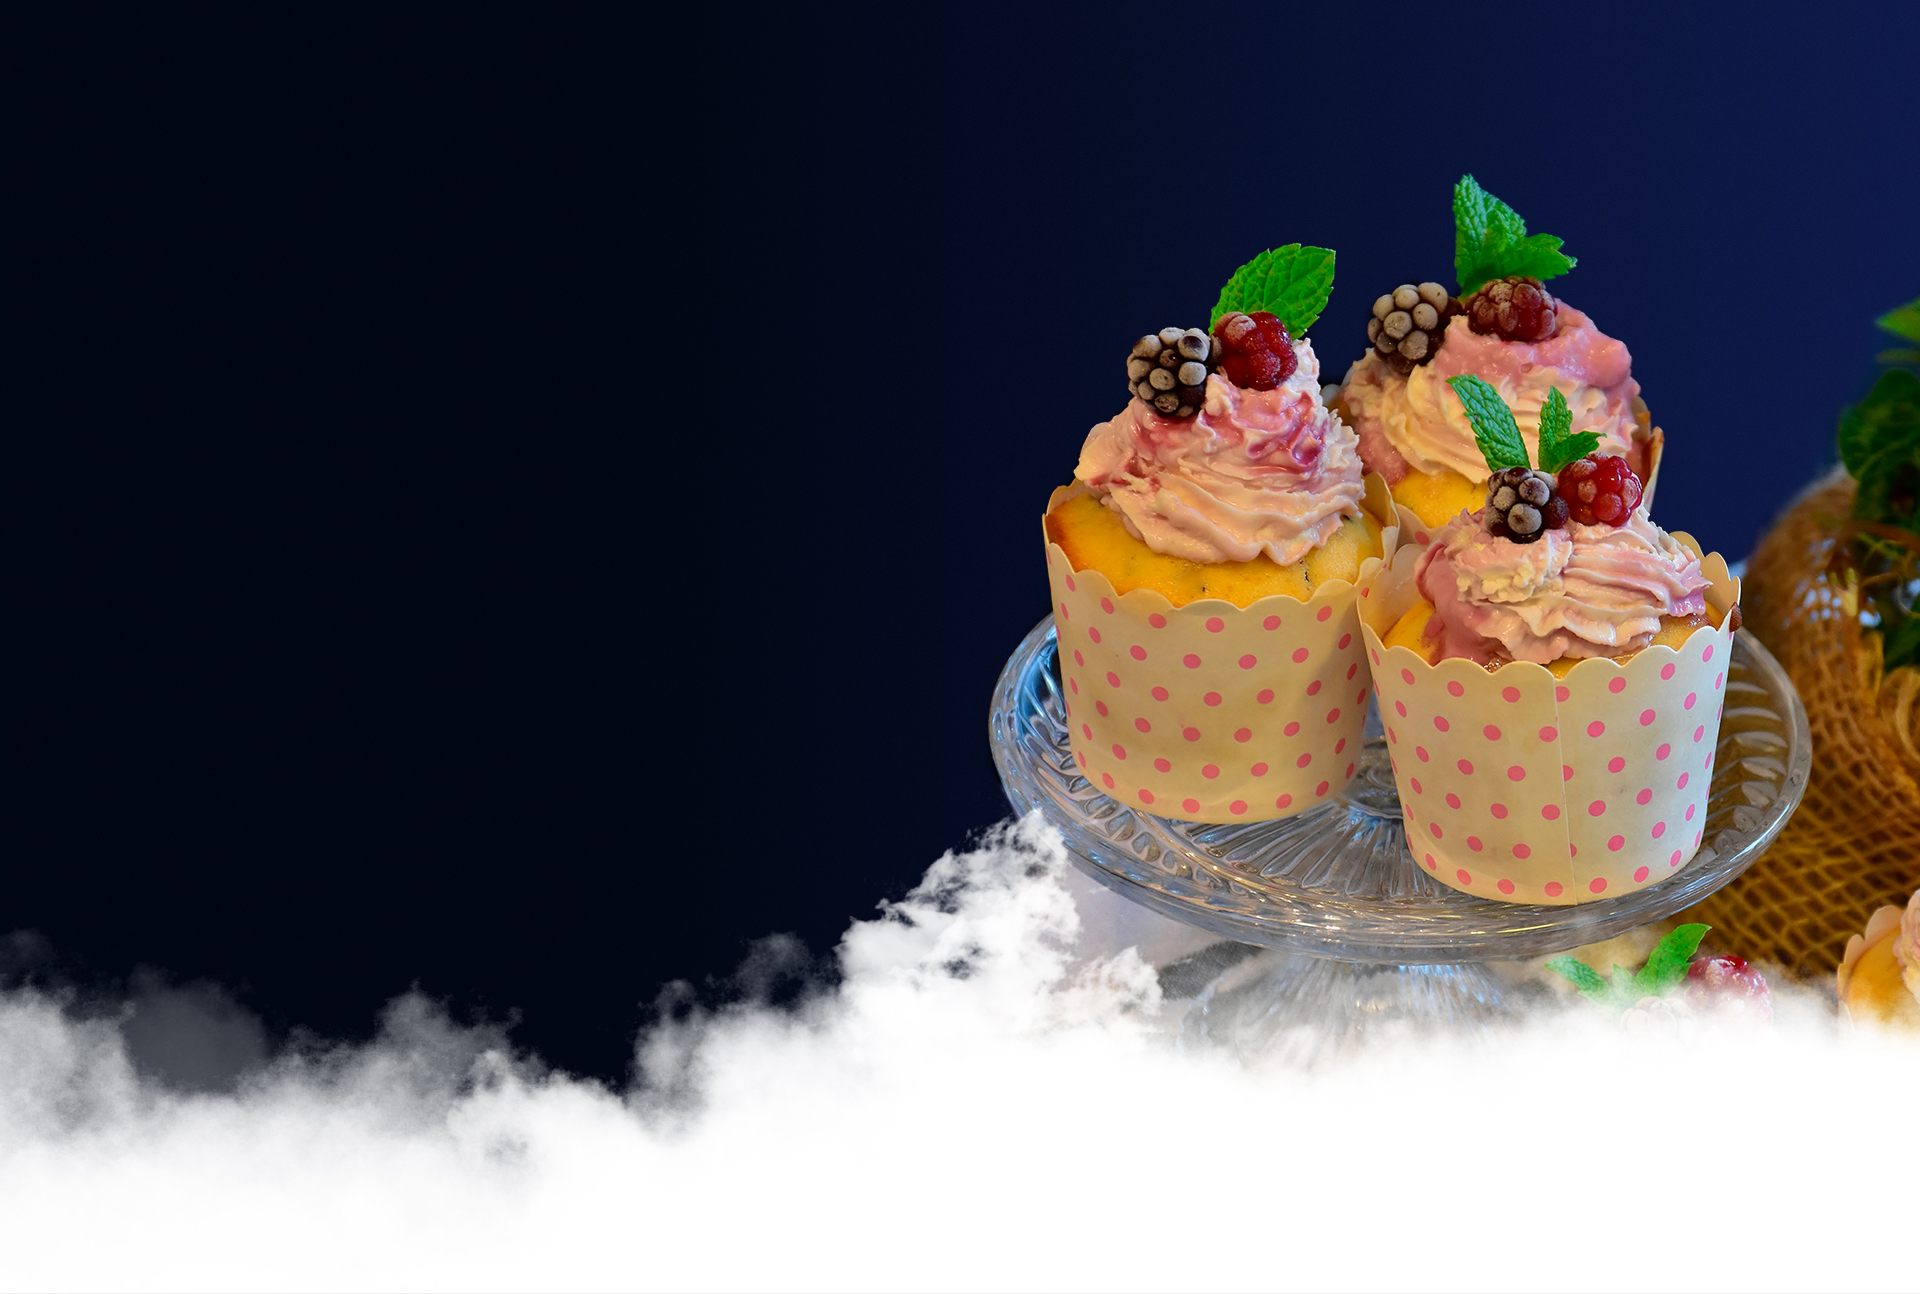
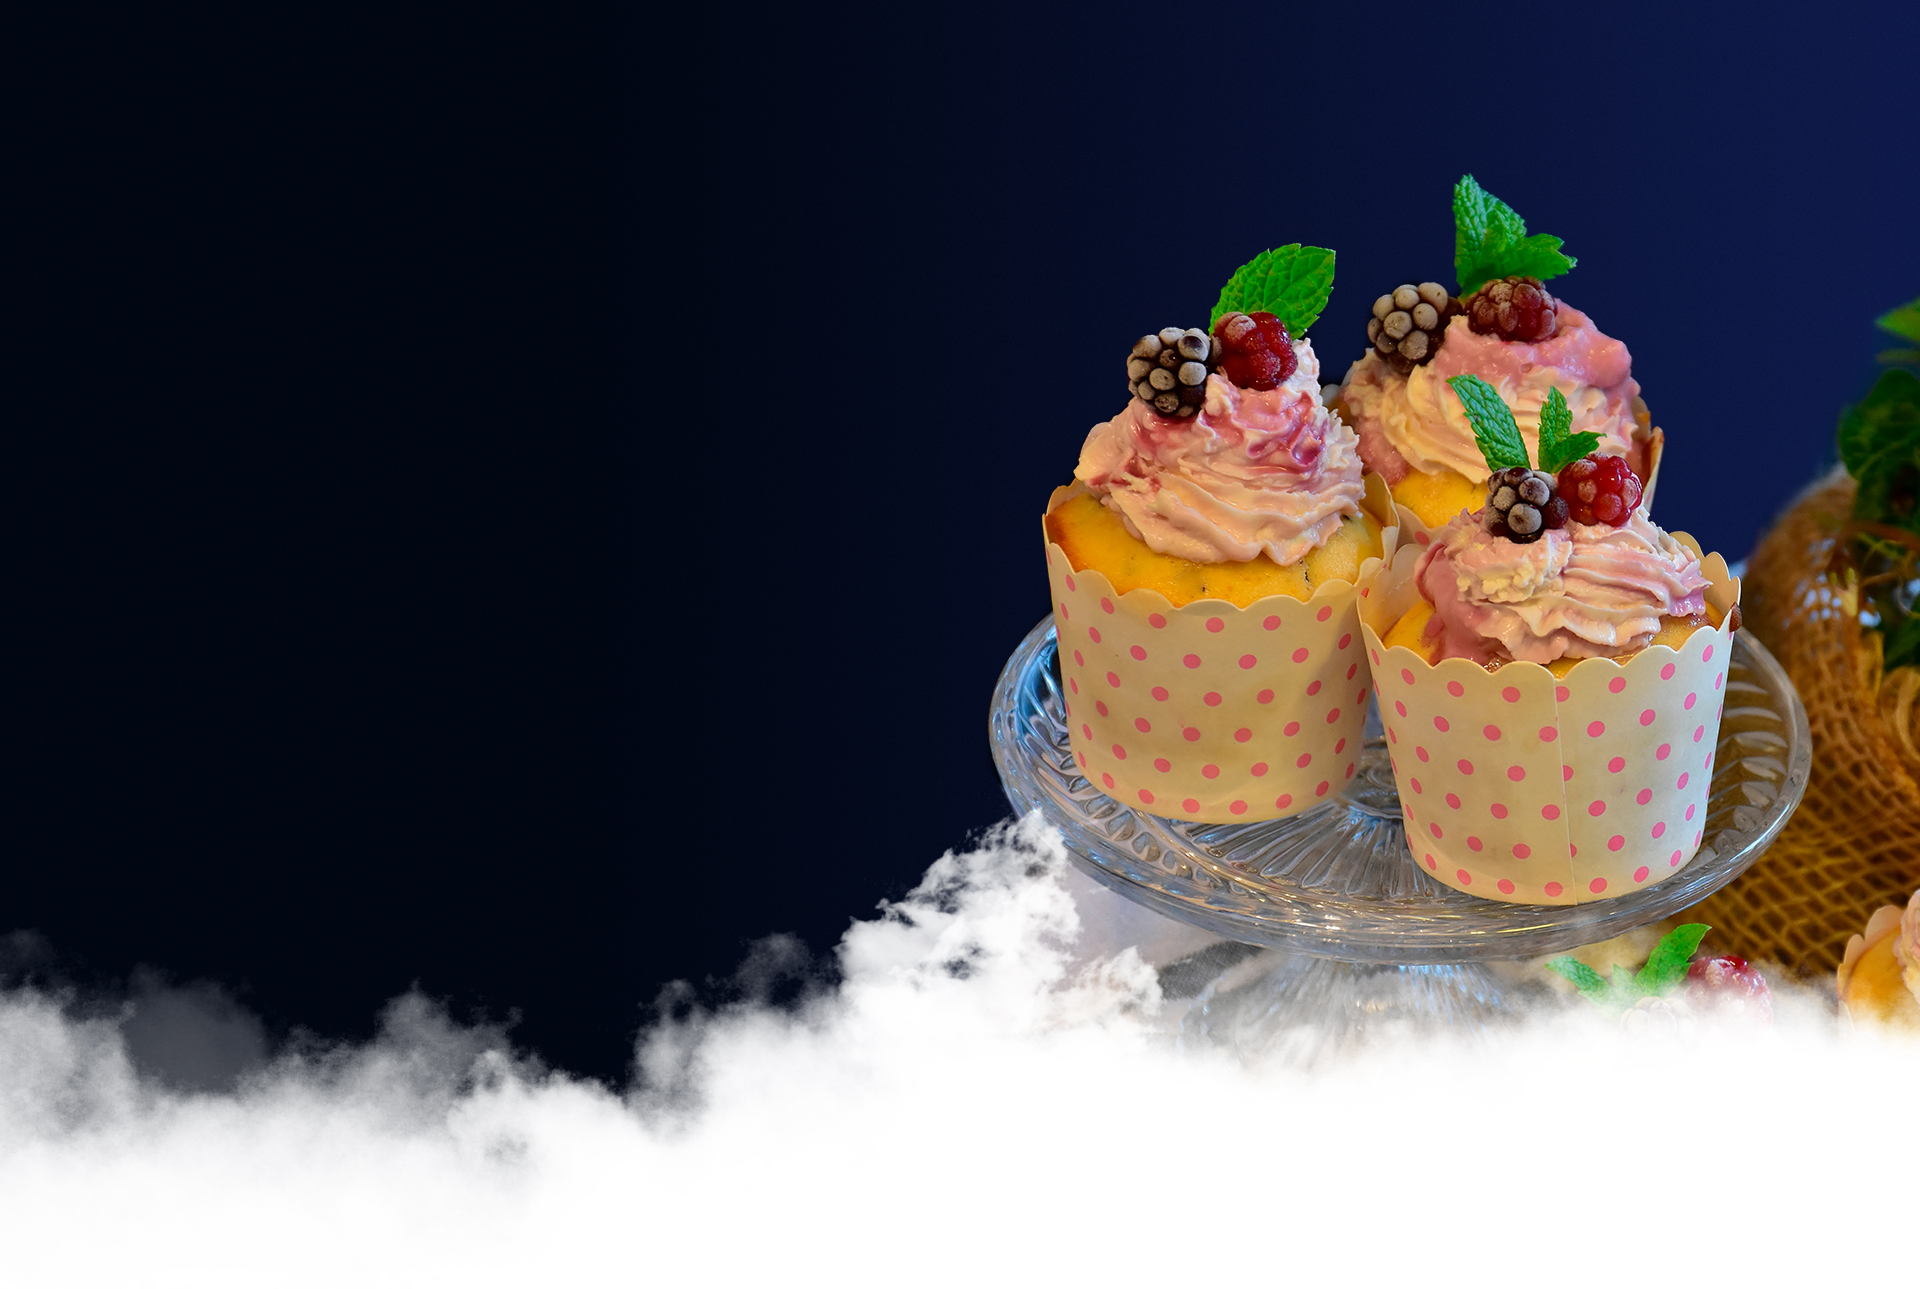
Updates 1.1

diff --git a/src/Components/Conditer/Conditer.jsx b/src/Components/Conditer/Conditer.jsx
@@ -1,27 +1,35 @@
 import React from 'react';
 import styles from './conditer.module.css'
 import conditer_img from '../../assets/images/conditer.png'
+
 const Conditer = () => {
     return (
-        <section className={styles.conditer}>
-            <div className='container'>
-                <div className={styles.conditer}>
-                    <div className={styles.conditer__left}>
-                        <h1>Лично приготовлю и всё красиво упакую для вашего события</h1>
-                        <ul>
-                            <li>Проконсультирую по выбору капкейков <br/> и придумаю нестандартную идею</li>
-                            <li>Приготовлю капкейки для вашего события, <br/> которые обязательно всем понравятся</li>
-                            <li>Аккуратно и красиво всё упакую, если <br/> вы хотите сделать приятный подарок</li>
-                        </ul>
-                        <button>Задать вопрос Юлии</button>
+        <section className={styles.conditer__block}>
+            <div className={styles.clouds__top}></div>
+
+            <div className={styles.conditer}>
+
+                <div className='container'>
+                    <div className={styles.conditer}>
+                        <div className={styles.conditer__left}>
+                            <h1>Лично приготовлю и всё красиво упакую для вашего события</h1>
+                            <ul>
+                                <li>Проконсультирую по выбору капкейков <br/> и придумаю нестандартную идею</li>
+                                <li>Приготовлю капкейки для вашего события, <br/> которые обязательно всем понравятся
+                                </li>
+                                <li>Аккуратно и красиво всё упакую, если <br/> вы хотите сделать приятный подарок</li>
+                            </ul>
+                            <button>Задать вопрос Юлии</button>
+                        </div>
+                        <div className={styles.conditer__right}>
+                            <img src={conditer_img} alt="Юлия Кондратьева"/>
+                        </div>
                     </div>
-                    <div className={styles.conditer__right}>
-                        <img src={conditer_img} alt="Юлия Кондратьева"/>
-                    </div>
+
+
                 </div>
-
-
             </div>
+            <div className={styles.clouds__bottom}></div>
 
 
         </section>

diff --git a/src/Components/Conditer/conditer.module.css b/src/Components/Conditer/conditer.module.css
@@ -2,7 +2,34 @@
     display: flex;
     justify-content: space-between;
     align-items: center;
-    margin-top: 50px;
+}
+
+.conditer__block{
+    position: relative;
+
+}
+
+.clouds__top{
+    background-image: url("../../assets/images/cloudsup-bg__app.png");
+    background-repeat: no-repeat;
+    background-position: center center;
+    background-size: cover;
+    width: 100%;
+    height: 330px;
+    background-color: transparent;
+    position: absolute;
+    top: -325px;
+    z-index: 2;
+}
+
+.clouds__bottom{
+    background-image: url("../../assets/images/clouds-bg.png");
+    background-repeat: no-repeat;
+    background-position: center center;
+    background-size: cover;
+    width: 100%;
+    height: 330px;
+    background-color: #081130;
 }
 
 .conditer__left {
@@ -11,8 +38,8 @@
 }
 .conditer__left::before {
     position: absolute;
-    top: 24px;
-    content: "Не нашли то что нужно?";
+    top: -24px;
+    content: "Кто будет готовить?";
     text-transform: uppercase;
     color: #2E363E;
     font-weight: 400;

diff --git a/src/Components/Hero/hero.module.css b/src/Components/Hero/hero.module.css
@@ -3,10 +3,12 @@
     background-repeat: no-repeat;
     background-size: cover;
     background-position: top;
-    height: 100vh;
-    width: 100vw;
+    height: 1295px;
+    width: 100%;
     padding-top: 82px;
     overflow-x: hidden;
+    background-color: #ffff;
+    border: none;
 }
 
 .hero__inner {
@@ -22,14 +24,15 @@
     display: flex;
     flex-direction: column;
     gap: 24px;
-    padding-top: 61px;
+    margin-top: 61px;
     margin-bottom: 40px;
 }
 
 .hero__upper::before {
     position: absolute;
-    top: 24px;
-    content: "ВКУСНЕЙШИЕ";
+    top: -24px;
+    content: "вкуснейшие";
+    text-transform: uppercase;
     color: #2E363E;
     font-weight: 400;
     font-size: 11px;
@@ -38,6 +41,7 @@
     padding: 10px 18px;
     background-color: #F2F6FA;
     border-radius: 5px;
+    transform: translateY(-100%);
 }
 
 .hero__upper h1 {

diff --git a/src/Components/Gallery/gallery.module.css b/src/Components/Gallery/gallery.module.css
@@ -1,7 +1,17 @@
 
 .gallery__inner{
     overflow-x: hidden;
+margin-top: 2px;
+}
 
+.clouds{
+    background-image: url("../../assets/images/cloudsup-bg.png");
+    background-size: cover;
+    background-repeat: no-repeat;
+    background-position: center;
+    width: 100%;
+    height: 284px;
+    background-color: #081130;
 }
 
 
@@ -14,6 +24,7 @@
     font-weight: 500;
     font-size: 48px;
     line-height: 60px;
+    margin-bottom: 14px;
 }
 
 .gallery__inner p {
@@ -28,4 +39,14 @@
     grid-template-columns: 1fr 1fr 1fr;
     gap: 9px;
     margin-bottom: 9px;
+}
+
+.gallery__bottom{
+    background-image: url("../../assets/images/clouds-bg.png");
+    background-repeat: no-repeat;
+    background-size: cover;
+    background-position: center;
+    height: 284px;
+    background-color: #081130;
+    width: 100%;
 }

diff --git a/src/Components/MobApp/mobApp.module.css b/src/Components/MobApp/mobApp.module.css
@@ -1,17 +1,21 @@
 .mobApp{
+    display: flex;
+    background-color: #081130;
+}
+.mobile{
     background-image: url("../../assets/images/mobapp-bg.png");
     background-repeat: no-repeat;
     background-size: cover;
     background-position: center;
-    height: 100vh;
-    display: flex;
+    width: 100%;
+    height: 1034px;
 }
 
 
 .mobApp__inner{
     display: flex;
     flex-direction: column;
-    align-items: flex-end;
+    padding-left: 84px;
     padding-top: 350px ;
 }
 
@@ -21,7 +25,7 @@
 
 .mobApp__inner__info::before {
     position: absolute;
-    top: 24px;
+    top: -24px;
     content: "Не нашли то что нужно?";
     text-transform: uppercase;
     color: #2E363E;

diff --git a/src/Components/Gallery/Gallery.jsx b/src/Components/Gallery/Gallery.jsx
@@ -18,6 +18,7 @@ const Gallery = () => {
         {image: gallery7}, {image: gallery8}, {image: gallery9}])
     return (
         <section>
+            <div className={styles.clouds}></div>
             <div className={styles.gallery__inner}>
                 <h1>Сделали более 3.000 заказов за 2 года</h1>
                 <p>Посмотрите фото реальных заказов из нашего instagram</p>
@@ -27,6 +28,7 @@ const Gallery = () => {
                     </div>))}
                 </div>
             </div>
+            <div className={styles.gallery__bottom}></div>
         </section>
     );
 };

diff --git a/src/Components/MobApp/MobApp.jsx b/src/Components/MobApp/MobApp.jsx
@@ -4,6 +4,7 @@ import styles from './mobApp.module.css'
 const MobApp = () => {
     return (
         <section className={styles.mobApp}>
+            <div className={styles.mobile}></div>
             <div className='container'>
                 <div className={styles.mobApp__inner}>
                     <div className={styles.mobApp__inner__info}>

diff --git a/src/UI/Modal/Modal.jsx b/src/UI/Modal/Modal.jsx
@@ -1,7 +1,8 @@
 import React from 'react';
+import {createPortal} from "react-dom";
 import styles from './modal.module.css';
 const Modal = ({children}) => {
-    return (
+    return createPortal (
         <div className={styles.modal}>
             <div className={styles.modal__background}>
                 <div className={styles.modal__content}>

diff --git a/src/Components/Catalog/catalog.module.css b/src/Components/Catalog/catalog.module.css
@@ -1,5 +1,14 @@
 .catalog {
-
+    background-color: #ffff;
+}
+.clouds_bottom{
+    background-image: url("../../assets/images/clouds_catalog.png");
+    background-repeat: no-repeat;
+    background-position: center;
+    background-size: cover;
+    width: 100%;
+    height: 330px;
+    background-color: #081130;
 }
 
 .catalog__inner h1 {

diff --git a/src/Components/Footer/footer.module.css b/src/Components/Footer/footer.module.css
@@ -1,10 +1,7 @@
 .footer {
     background-color: #081130;
-    padding-top: 30px;
+    padding-top: 12px;
 }
-
-
-
 
 .footer__inner {
     display: flex;
@@ -110,6 +107,10 @@
     font-weight: 500;
     font-size: 12px;
     line-height: 150%;
+}
+
+.footer__bottom{
+    padding-bottom: 80px;
 }
 
 .footer__bottom a{

diff --git a/src/Components/Catalog/Catalog.jsx b/src/Components/Catalog/Catalog.jsx
@@ -83,6 +83,7 @@ const Catalog = () => {
                     </div>
                 </div>
             </div>
+            <div className={styles.clouds_bottom}></div>
         </section>
     );
 };

diff --git a/src/Components/Reviews/reviews.module.css b/src/Components/Reviews/reviews.module.css
@@ -7,6 +7,7 @@
     width: 100%;
 }
 
+
 .reviews__inner > h1 {
     text-align: center;
     font-weight: 500;
